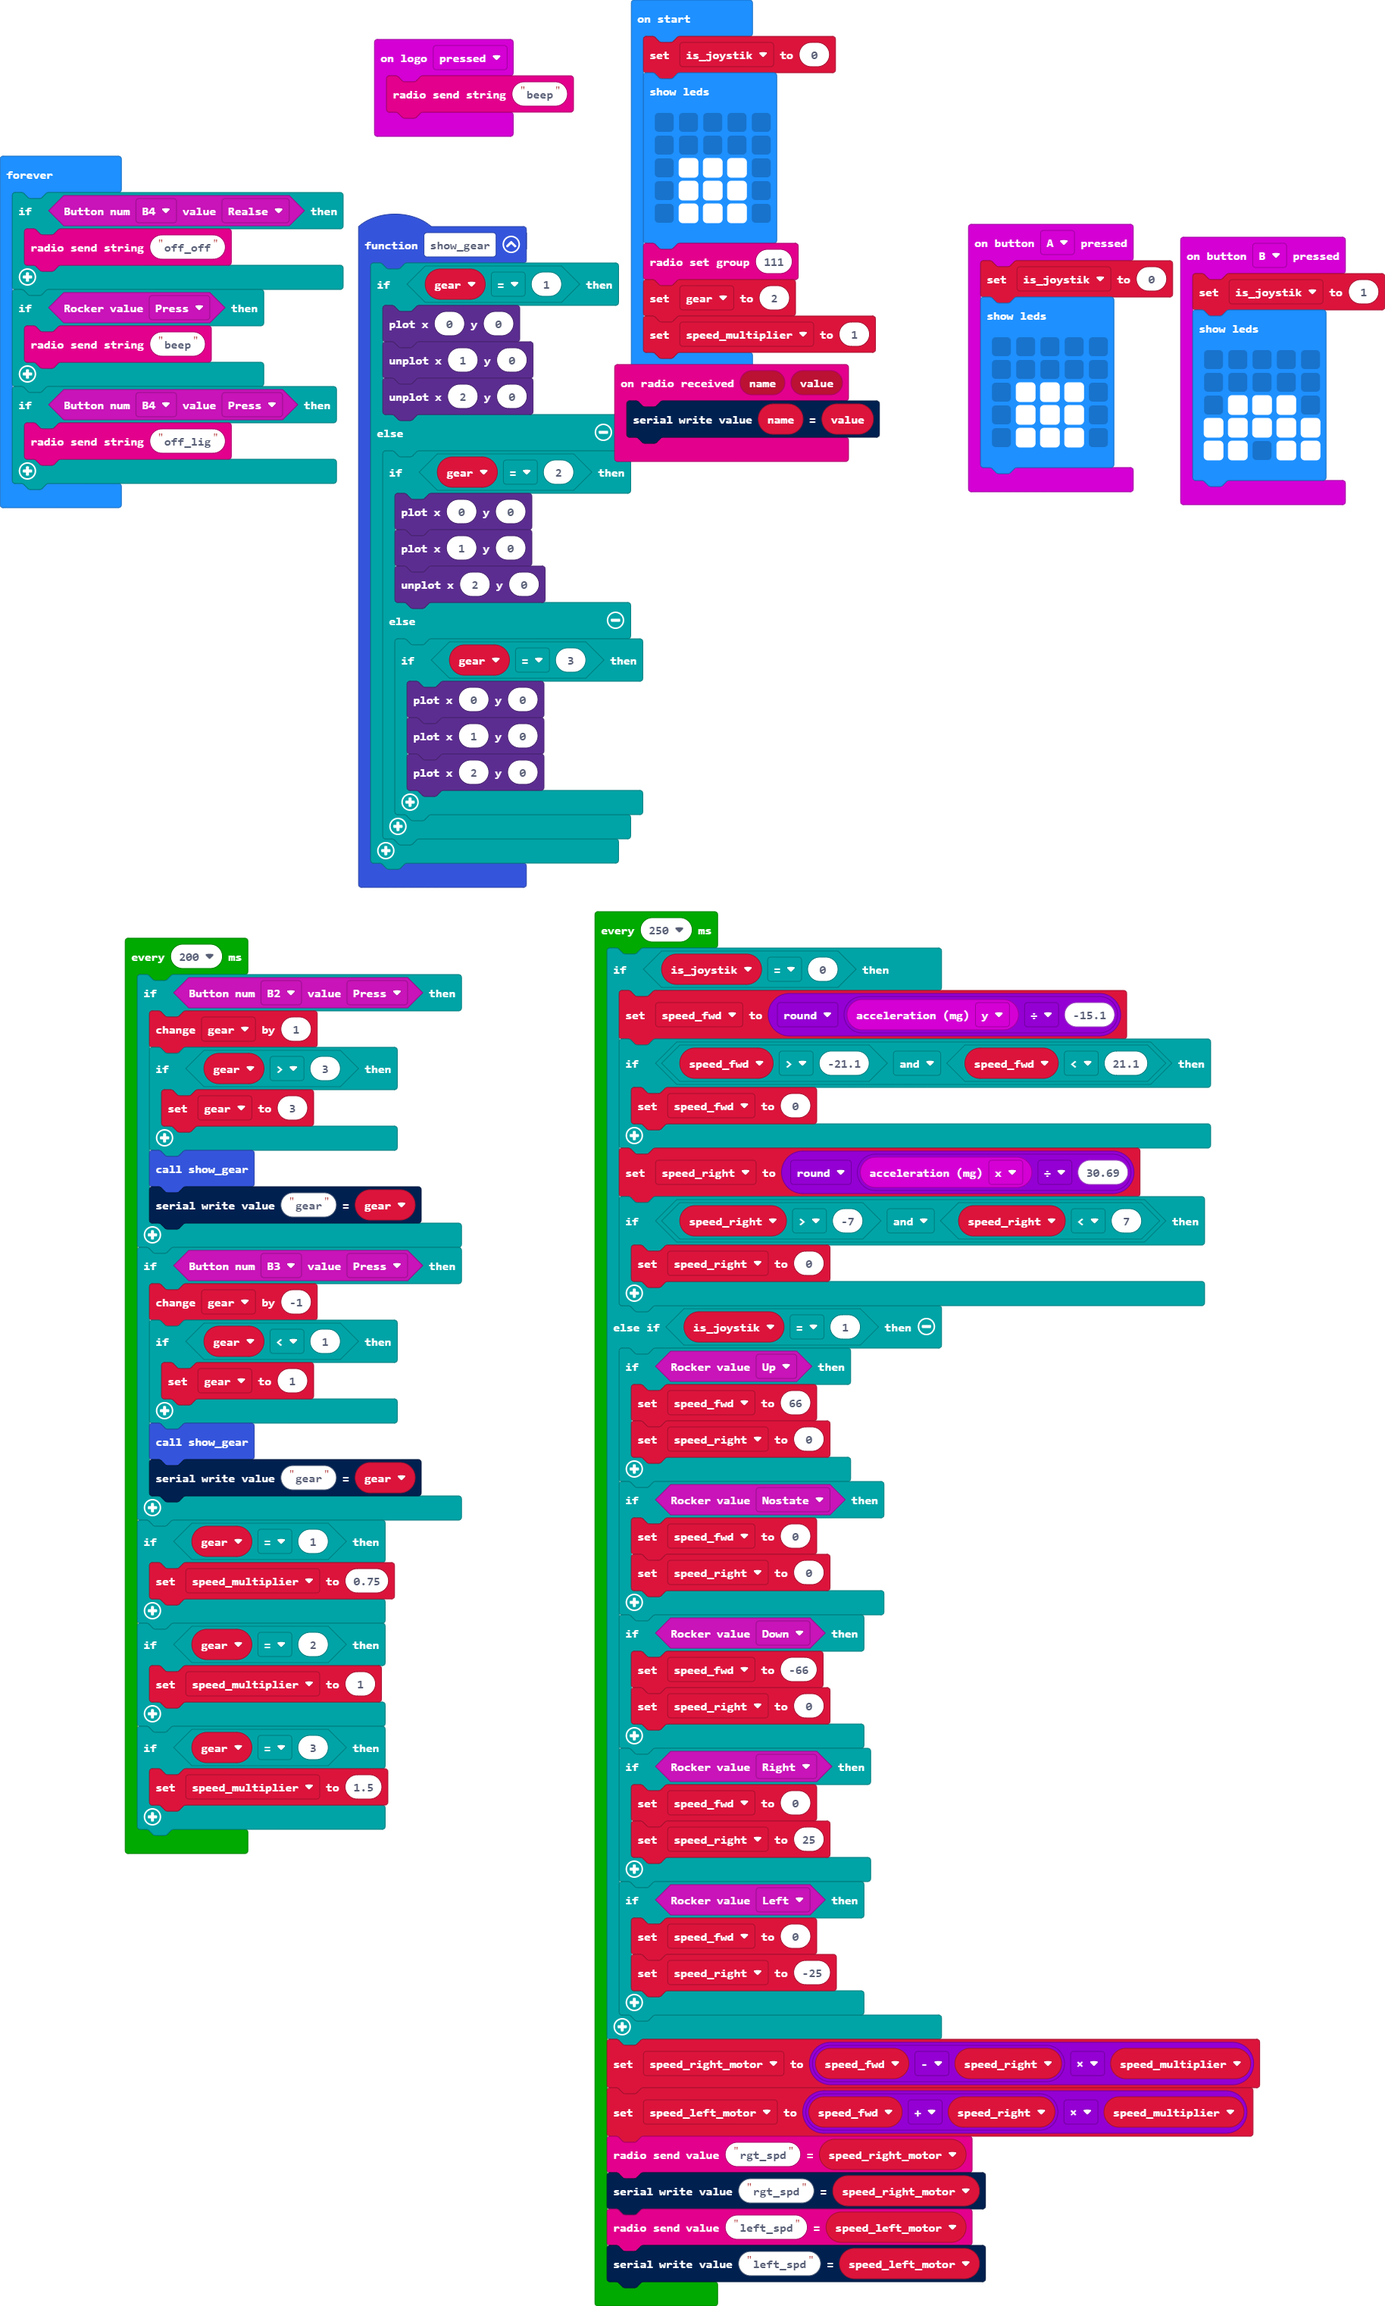
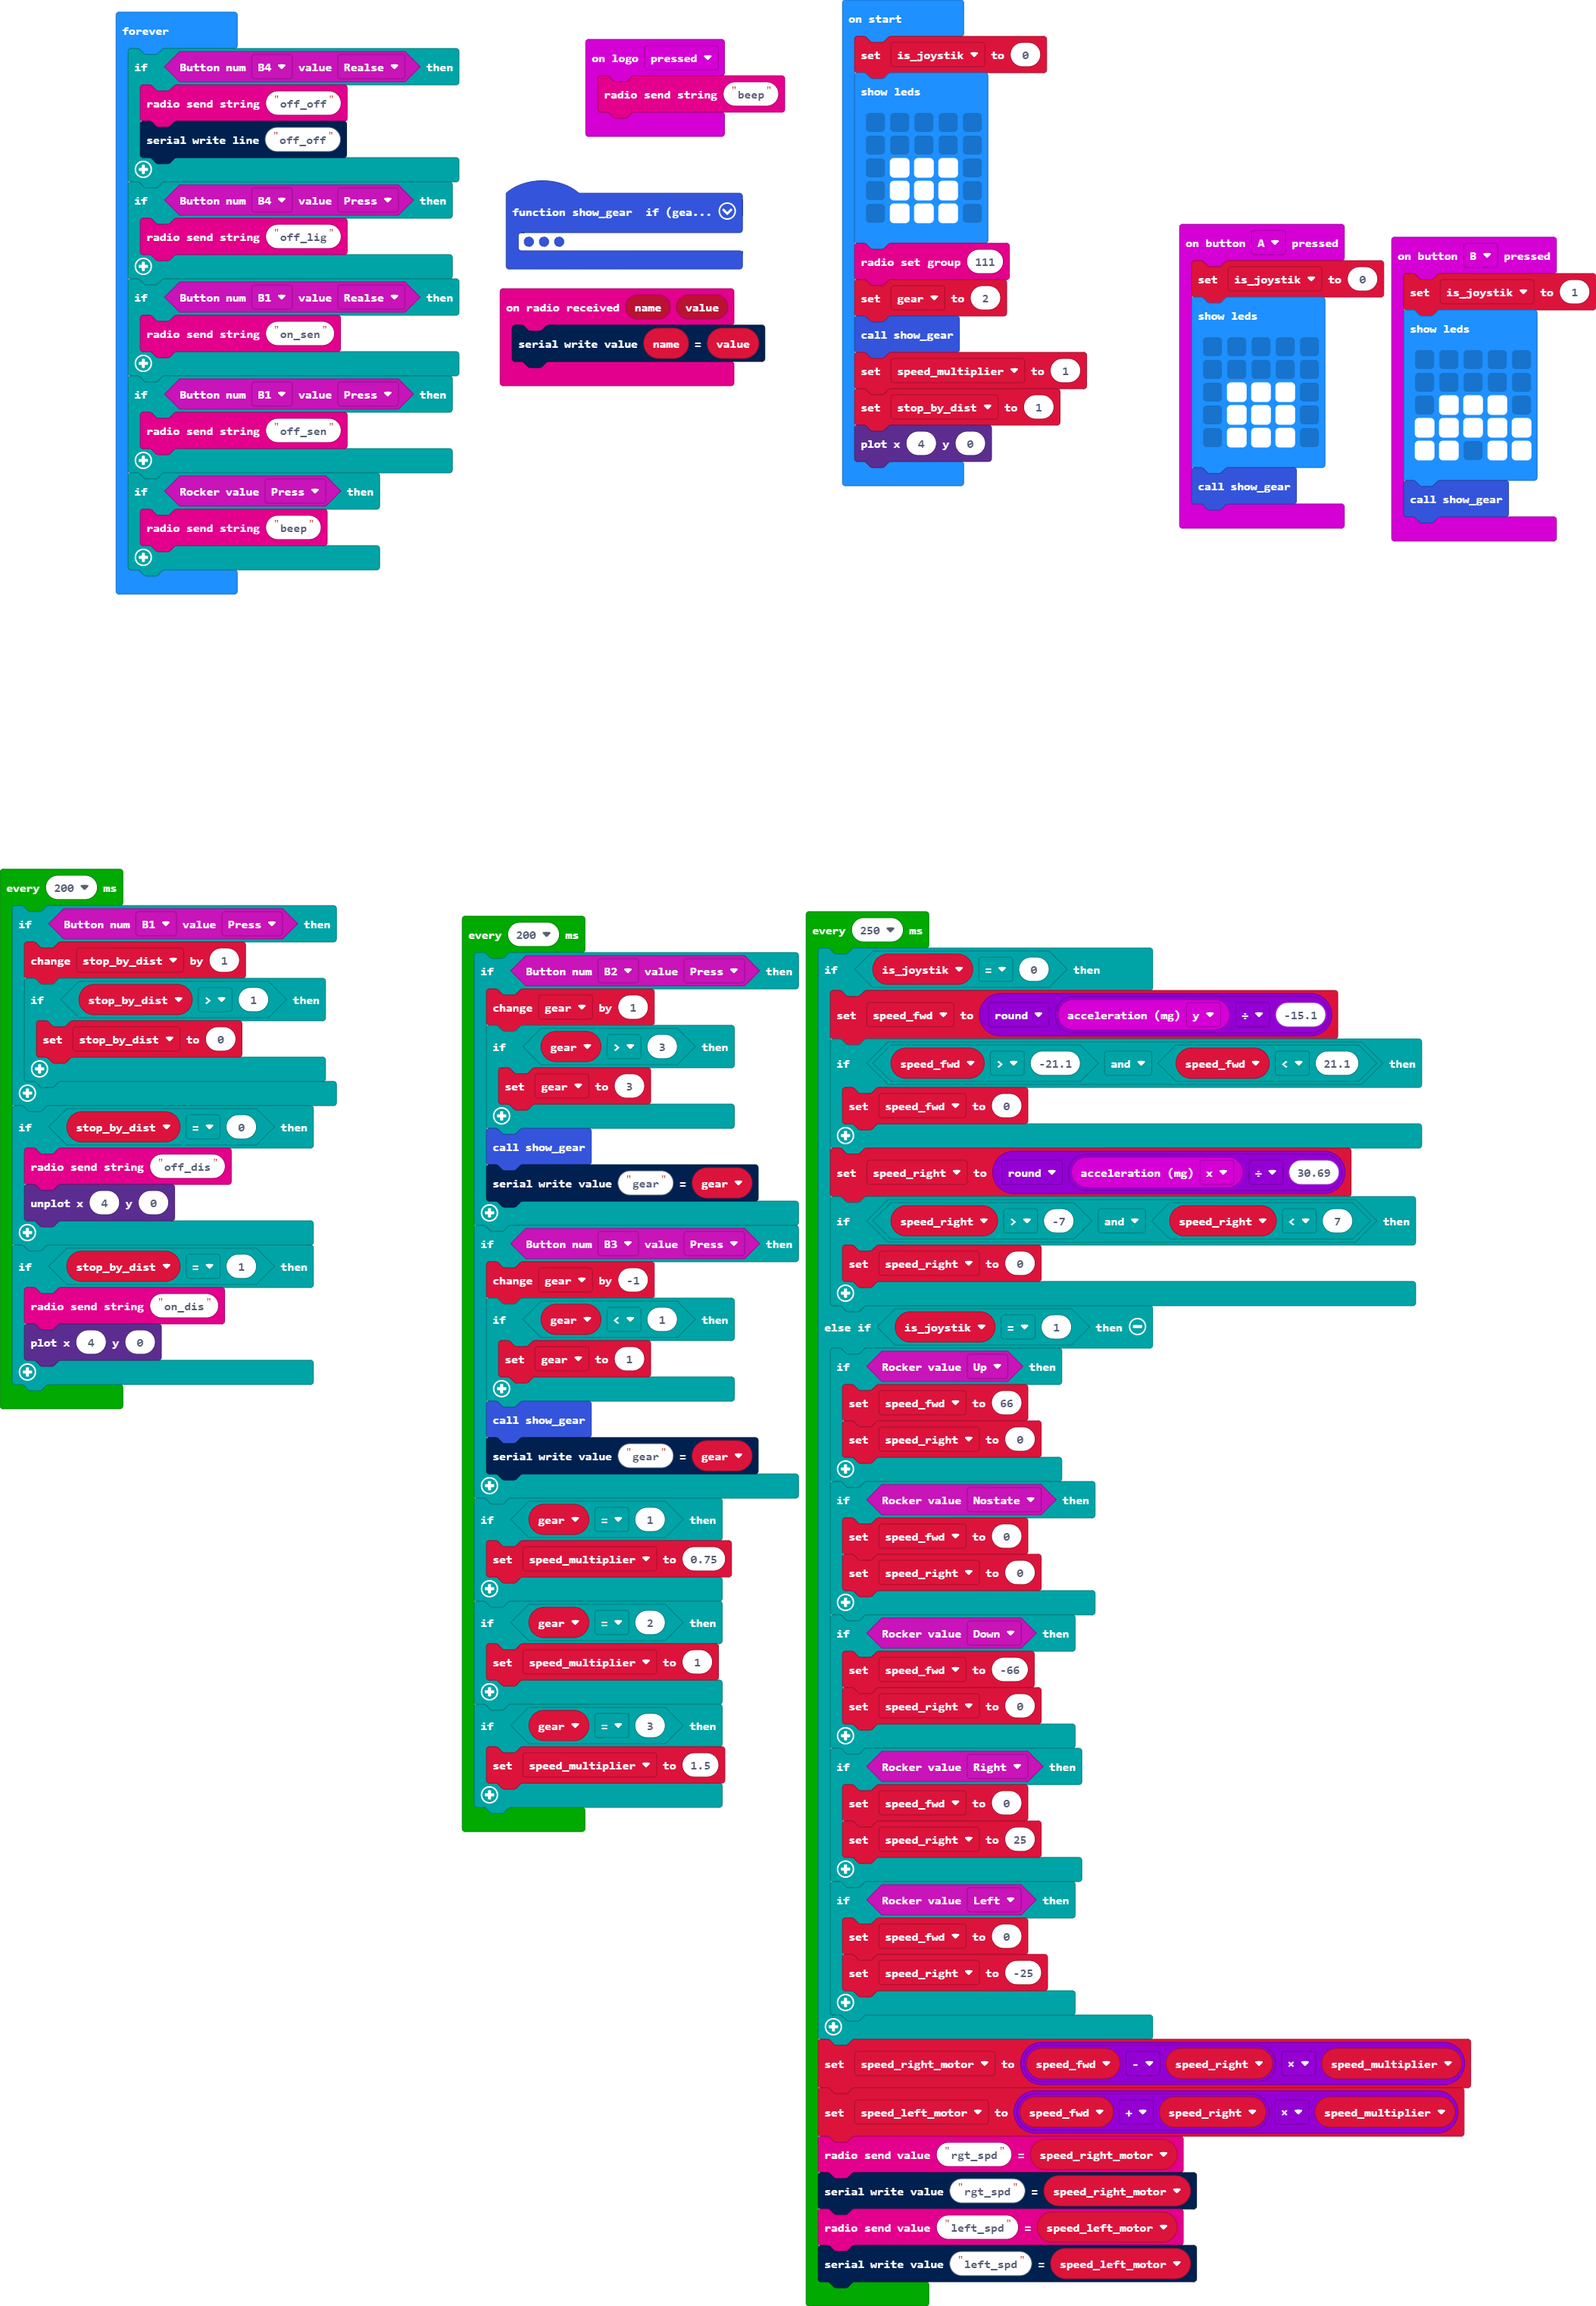
v1.4 - enable/disable distance sensor, gear leds improved

diff --git a/main.ts b/main.ts
@@ -7,6 +7,7 @@ input.onButtonPressed(Button.A, function () {
         . # # # .
         . # # # .
         `)
+    show_gear()
 })
 input.onButtonPressed(Button.B, function () {
     is_joystik = 1
@@ -17,6 +18,7 @@ input.onButtonPressed(Button.B, function () {
         # # # # #
         # # . # #
         `)
+    show_gear()
 })
 function show_gear () {
     if (gear == 1) {
@@ -59,16 +61,26 @@ basic.showLeds(`
     `)
 radio.setGroup(111)
 gear = 2
+show_gear()
 let speed_multiplier = 1
+let stop_by_dist = 1
+led.plot(4, 0)
 basic.forever(function () {
     if (GHBit.Button(GHBit.enButton.B4, GHBit.enButtonState.Realse)) {
         radio.sendString("off_off")
-    }
-    if (GHBit.Rocker(GHBit.enRocker.Press)) {
-        radio.sendString("beep")
+        serial.writeLine("off_off")
     }
     if (GHBit.Button(GHBit.enButton.B4, GHBit.enButtonState.Press)) {
         radio.sendString("off_lig")
+    }
+    if (GHBit.Button(GHBit.enButton.B1, GHBit.enButtonState.Realse)) {
+        radio.sendString("on_sen")
+    }
+    if (GHBit.Button(GHBit.enButton.B1, GHBit.enButtonState.Press)) {
+        radio.sendString("off_sen")
+    }
+    if (GHBit.Rocker(GHBit.enRocker.Press)) {
+        radio.sendString("beep")
     }
 })
 loops.everyInterval(250, function () {
@@ -109,6 +121,22 @@ loops.everyInterval(250, function () {
     serial.writeValue("rgt_spd", speed_right_motor)
     radio.sendValue("left_spd", speed_left_motor)
     serial.writeValue("left_spd", speed_left_motor)
+})
+loops.everyInterval(200, function () {
+    if (GHBit.Button(GHBit.enButton.B1, GHBit.enButtonState.Press)) {
+        stop_by_dist += 1
+        if (stop_by_dist > 1) {
+            stop_by_dist = 0
+        }
+    }
+    if (stop_by_dist == 0) {
+        radio.sendString("off_dis")
+        led.unplot(4, 0)
+    }
+    if (stop_by_dist == 1) {
+        radio.sendString("on_dis")
+        led.plot(4, 0)
+    }
 })
 loops.everyInterval(200, function () {
     if (GHBit.Button(GHBit.enButton.B2, GHBit.enButtonState.Press)) {

diff --git a/main.py b/main.py
@@ -8,6 +8,7 @@ def on_button_pressed_a():
                 . # # # .
                 . # # # .
     """)
+    show_gear()
 input.on_button_pressed(Button.A, on_button_pressed_a)
 
 def on_button_pressed_b():
@@ -20,6 +21,7 @@ def on_button_pressed_b():
                 # # # # #
                 # # . # #
     """)
+    show_gear()
 input.on_button_pressed(Button.B, on_button_pressed_b)
 
 def show_gear():
@@ -62,15 +64,23 @@ basic.show_leds("""
 """)
 radio.set_group(111)
 gear = 2
+show_gear()
 speed_multiplier = 1
+stop_by_dist = 1
+led.plot(4, 0)
 
 def on_forever():
     if GHBit.button(GHBit.enButton.B4, GHBit.enButtonState.REALSE):
         radio.send_string("off_off")
-    if GHBit.rocker(GHBit.enRocker.PRESS):
-        radio.send_string("beep")
+        serial.write_line("off_off")
     if GHBit.button(GHBit.enButton.B4, GHBit.enButtonState.PRESS):
         radio.send_string("off_lig")
+    if GHBit.button(GHBit.enButton.B1, GHBit.enButtonState.REALSE):
+        radio.send_string("on_sen")
+    if GHBit.button(GHBit.enButton.B1, GHBit.enButtonState.PRESS):
+        radio.send_string("off_sen")
+    if GHBit.rocker(GHBit.enRocker.PRESS):
+        radio.send_string("beep")
 basic.forever(on_forever)
 
 def on_every_interval():
@@ -107,6 +117,20 @@ def on_every_interval():
 loops.every_interval(250, on_every_interval)
 
 def on_every_interval2():
+    global stop_by_dist
+    if GHBit.button(GHBit.enButton.B1, GHBit.enButtonState.PRESS):
+        stop_by_dist += 1
+        if stop_by_dist > 1:
+            stop_by_dist = 0
+    if stop_by_dist == 0:
+        radio.send_string("off_dis")
+        led.unplot(4, 0)
+    if stop_by_dist == 1:
+        radio.send_string("on_dis")
+        led.plot(4, 0)
+loops.every_interval(200, on_every_interval2)
+
+def on_every_interval3():
     global gear, speed_multiplier
     if GHBit.button(GHBit.enButton.B2, GHBit.enButtonState.PRESS):
         gear += 1
@@ -126,4 +150,4 @@ def on_every_interval2():
         speed_multiplier = 1
     if gear == 3:
         speed_multiplier = 1.5
-loops.every_interval(200, on_every_interval2)
+loops.every_interval(200, on_every_interval3)
